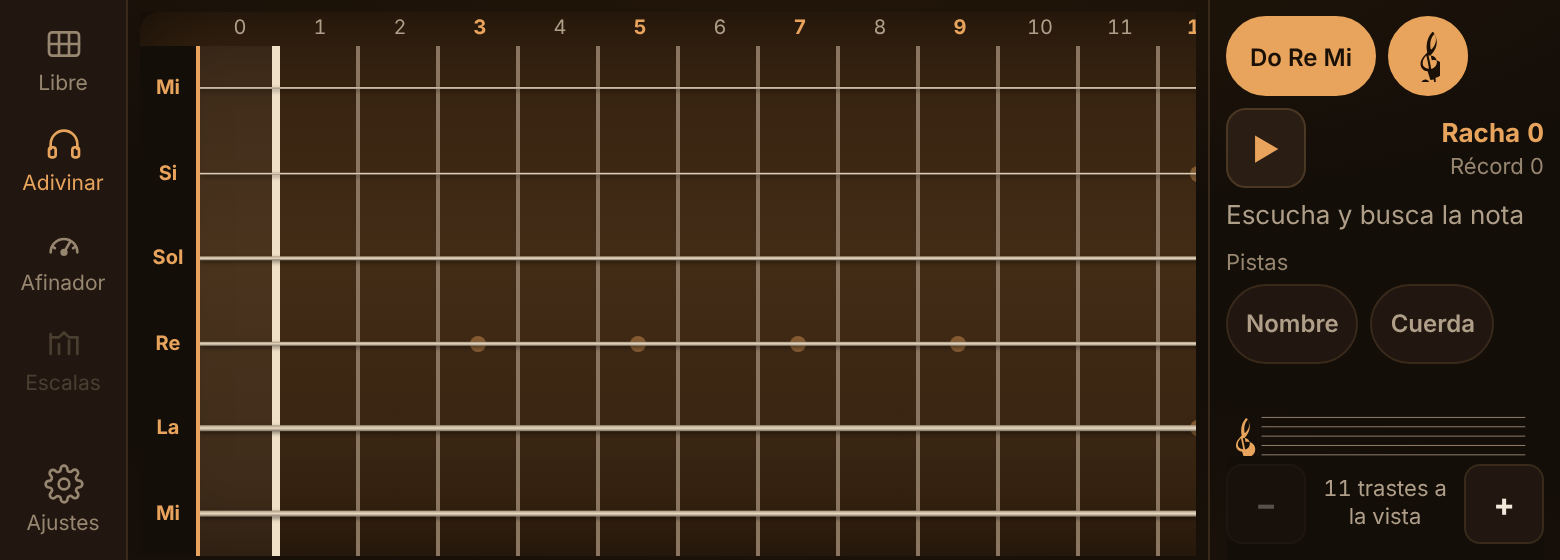
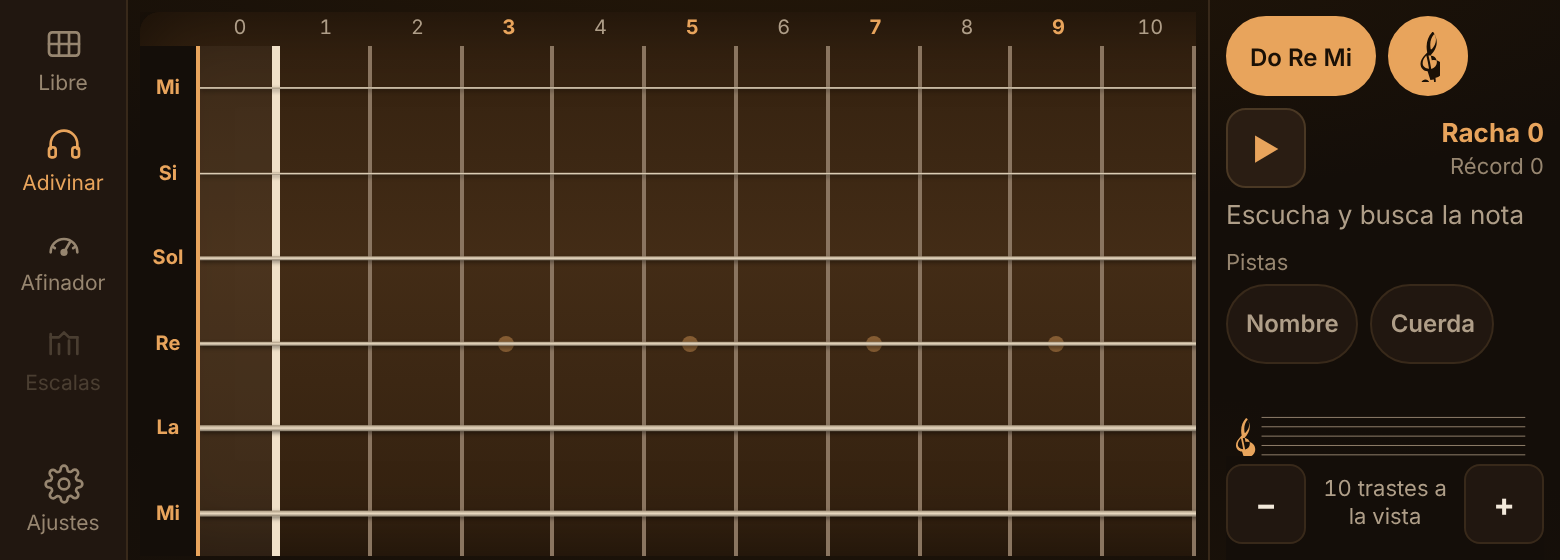
F3: «+» enseña más trastes y se pueden pedir trastes de hasta 28 px con el dedo (V-04, G-05)
Comentario del cliente del 20/10. App 0.3.2. Requisitos v1.14, matriz
1.12, roadmap 3.12 e interfaz 1.4. Se audita en CP-3.

Claude-Session: https://claude.ai/code/session_01WNqYPth87waeVp6tJXcZMT

diff --git a/dist/trasteando.html b/dist/trasteando.html
@@ -516,9 +516,10 @@ select { flex:1; min-height:40px; background:var(--surface); border:1px solid va
 
 <!-- Zoom -->
 <div class="zoombar" id="zoombar">
-  <button class="zoom-btn" id="zoom-out" aria-label="Ver más trastes">&minus;</button>
+  <!-- «+» enseña más trastes y «−» menos, como pidió el cliente el 20/10. -->
+  <button class="zoom-btn" id="zoom-in" aria-label="Ver menos trastes">&minus;</button>
   <span class="zoom-label" id="zoom-label"></span>
-  <button class="zoom-btn" id="zoom-in" aria-label="Ver menos trastes">+</button>
+  <button class="zoom-btn" id="zoom-out" aria-label="Ver más trastes">+</button>
 </div>
 
 </div>
@@ -652,7 +653,7 @@ select { flex:1; min-height:40px; background:var(--surface); border:1px solid va
 
 /* Versión de la app. Sigue la pauta 0.<fase del roadmap>.<corrección> hasta el
    lanzamiento, que será la 1.0.0. Cada cambio queda descrito en CHANGELOG.md. */
-const APP_VERSION = '0.3.1';
+const APP_VERSION = '0.3.2';
 
 /* ============================================================
    1. TEORÍA MUSICAL — datos base
@@ -672,14 +673,19 @@ const COLORS = ['#feb893','#ffddcb','#6ec933','#96de71','#fee73f','#9095fd',
 const NUM_FRETS = 24;
 const MIN_FRET_W = 34;   // ancho mínimo de un traste con ratón
 const MIN_TOUCH = 40;    // lado mínimo de lo que se toca con el dedo (G-05, V-04)
+const MIN_TOUCH_ZOOM = 28;  // con «+» se pueden ver más trastes, más estrechos (20/10)
 
 /** ¿El puntero principal es un dedo? Se pregunta por la capacidad, no por el
  *  sistema (PL-04): un portátil táctil con ratón dice que no, un móvil que sí. */
 function coarsePointer(){
   return typeof matchMedia === 'function' && matchMedia('(pointer: coarse)').matches;
 }
-/** Ancho mínimo de un traste: 40 px con el dedo, 34 con ratón (V-04). */
+/** Ancho cómodo de un traste: 40 px con el dedo, 34 con ratón. Es el que usa
+ *  la vista por defecto (G-05). */
 function minFretW(){ return coarsePointer() ? MIN_TOUCH : MIN_FRET_W; }
+/** Ancho mínimo si tú pides más trastes con «+»: 28 px con el dedo, que se
+ *  aciertan con algo más de cuidado; con ratón no cambia (V-04, 20/10). */
+function zoomFloorW(){ return coarsePointer() ? MIN_TOUCH_ZOOM : MIN_FRET_W; }
 const MAX_FRET_W = 110;
 
 // Afinaciones. Cada una es un array de 6 notas MIDI, de la cuerda más grave
@@ -1453,7 +1459,7 @@ function defaultVisibleFrets(){
   const w = window.innerWidth;
   const landscape = w > window.innerHeight;
   if (w >= 900) return NUM_FRETS;   // escritorio: mástil entero
-  if (landscape) return 12;
+  if (landscape) return 10;          // con 40 px por traste caben 10 en un iPhone con Safari
   return 5;                          // móvil vertical: pocos y anchos
 }
 
@@ -1463,7 +1469,7 @@ const LABEL_W = 30, NUT_W = 40;   // deben coincidir con --label-w y --nut-w
 function maxVisibleFrets(){
   const scroll = document.getElementById('board-scroll');
   const avail = scroll.clientWidth - LABEL_W - NUT_W;
-  return Math.max(3, Math.min(NUM_FRETS, Math.floor(avail / minFretW())));
+  return Math.max(3, Math.min(NUM_FRETS, Math.floor(avail / zoomFloorW())));
 }
 
 function applyZoom(){
@@ -1479,11 +1485,11 @@ function applyZoom(){
     ? (scroll.scrollLeft + scroll.clientWidth/2 - NUT_W) / prevFw
     : null;
 
-  // Con el dedo, un traste nunca mide menos de 40 px (V-04). Si el zoom
-  // guardado pide más trastes de los que caben así, se muestran los que caben
-  // y la etiqueta lo dice, pero no se pisa lo guardado: al girar el móvil
-  // vuelve el zoom elegido (V-08).
-  let fw = Math.max(minFretW(), Math.min(MAX_FRET_W, avail / state.visibleFrets));
+  // Con el dedo, un traste no baja de 28 px aunque pidas más con «+» (por
+  // defecto se ven los que caben a 40 px). Si el zoom guardado pide más de los
+  // que caben, se muestran los que caben y la etiqueta lo dice, pero no se
+  // pisa lo guardado: al girar el móvil vuelve el zoom elegido (V-08).
+  let fw = Math.max(zoomFloorW(), Math.min(MAX_FRET_W, avail / state.visibleFrets));
   // La variable vive en #board, no en :root: cambiarla en la raíz obliga al
   // navegador a revalidar el estilo de todo el documento en cada resize.
   document.getElementById('board').style.setProperty('--fret-w', fw + 'px');

diff --git a/index.html b/index.html
@@ -516,9 +516,10 @@ select { flex:1; min-height:40px; background:var(--surface); border:1px solid va
 
 <!-- Zoom -->
 <div class="zoombar" id="zoombar">
-  <button class="zoom-btn" id="zoom-out" aria-label="Ver más trastes">&minus;</button>
+  <!-- «+» enseña más trastes y «−» menos, como pidió el cliente el 20/10. -->
+  <button class="zoom-btn" id="zoom-in" aria-label="Ver menos trastes">&minus;</button>
   <span class="zoom-label" id="zoom-label"></span>
-  <button class="zoom-btn" id="zoom-in" aria-label="Ver menos trastes">+</button>
+  <button class="zoom-btn" id="zoom-out" aria-label="Ver más trastes">+</button>
 </div>
 
 </div>
@@ -633,7 +634,7 @@ select { flex:1; min-height:40px; background:var(--surface); border:1px solid va
 
 /* Versión de la app. Sigue la pauta 0.<fase del roadmap>.<corrección> hasta el
    lanzamiento, que será la 1.0.0. Cada cambio queda descrito en CHANGELOG.md. */
-const APP_VERSION = '0.3.1';
+const APP_VERSION = '0.3.2';
 
 /* ============================================================
    1. TEORÍA MUSICAL — datos base
@@ -653,14 +654,19 @@ const COLORS = ['#feb893','#ffddcb','#6ec933','#96de71','#fee73f','#9095fd',
 const NUM_FRETS = 24;
 const MIN_FRET_W = 34;   // ancho mínimo de un traste con ratón
 const MIN_TOUCH = 40;    // lado mínimo de lo que se toca con el dedo (G-05, V-04)
+const MIN_TOUCH_ZOOM = 28;  // con «+» se pueden ver más trastes, más estrechos (20/10)
 
 /** ¿El puntero principal es un dedo? Se pregunta por la capacidad, no por el
  *  sistema (PL-04): un portátil táctil con ratón dice que no, un móvil que sí. */
 function coarsePointer(){
   return typeof matchMedia === 'function' && matchMedia('(pointer: coarse)').matches;
 }
-/** Ancho mínimo de un traste: 40 px con el dedo, 34 con ratón (V-04). */
+/** Ancho cómodo de un traste: 40 px con el dedo, 34 con ratón. Es el que usa
+ *  la vista por defecto (G-05). */
 function minFretW(){ return coarsePointer() ? MIN_TOUCH : MIN_FRET_W; }
+/** Ancho mínimo si tú pides más trastes con «+»: 28 px con el dedo, que se
+ *  aciertan con algo más de cuidado; con ratón no cambia (V-04, 20/10). */
+function zoomFloorW(){ return coarsePointer() ? MIN_TOUCH_ZOOM : MIN_FRET_W; }
 const MAX_FRET_W = 110;
 
 // Afinaciones. Cada una es un array de 6 notas MIDI, de la cuerda más grave
@@ -1434,7 +1440,7 @@ function defaultVisibleFrets(){
   const w = window.innerWidth;
   const landscape = w > window.innerHeight;
   if (w >= 900) return NUM_FRETS;   // escritorio: mástil entero
-  if (landscape) return 12;
+  if (landscape) return 10;          // con 40 px por traste caben 10 en un iPhone con Safari
   return 5;                          // móvil vertical: pocos y anchos
 }
 
@@ -1444,7 +1450,7 @@ const LABEL_W = 30, NUT_W = 40;   // deben coincidir con --label-w y --nut-w
 function maxVisibleFrets(){
   const scroll = document.getElementById('board-scroll');
   const avail = scroll.clientWidth - LABEL_W - NUT_W;
-  return Math.max(3, Math.min(NUM_FRETS, Math.floor(avail / minFretW())));
+  return Math.max(3, Math.min(NUM_FRETS, Math.floor(avail / zoomFloorW())));
 }
 
 function applyZoom(){
@@ -1460,11 +1466,11 @@ function applyZoom(){
     ? (scroll.scrollLeft + scroll.clientWidth/2 - NUT_W) / prevFw
     : null;
 
-  // Con el dedo, un traste nunca mide menos de 40 px (V-04). Si el zoom
-  // guardado pide más trastes de los que caben así, se muestran los que caben
-  // y la etiqueta lo dice, pero no se pisa lo guardado: al girar el móvil
-  // vuelve el zoom elegido (V-08).
-  let fw = Math.max(minFretW(), Math.min(MAX_FRET_W, avail / state.visibleFrets));
+  // Con el dedo, un traste no baja de 28 px aunque pidas más con «+» (por
+  // defecto se ven los que caben a 40 px). Si el zoom guardado pide más de los
+  // que caben, se muestran los que caben y la etiqueta lo dice, pero no se
+  // pisa lo guardado: al girar el móvil vuelve el zoom elegido (V-08).
+  let fw = Math.max(zoomFloorW(), Math.min(MAX_FRET_W, avail / state.visibleFrets));
   // La variable vive en #board, no en :root: cambiarla en la raíz obliga al
   // navegador a revalidar el estilo de todo el documento en cada resize.
   document.getElementById('board').style.setProperty('--fret-w', fw + 'px');

diff --git a/tests/banco.test.js b/tests/banco.test.js
@@ -393,11 +393,23 @@ test('aviso para girar: solo con el dedo, en vertical, fuera del Afinador, y cer
   assert.equal(boot(APP).$('rotate-hint').hidden, true, 'sin matchMedia, como el caso más pobre, no sale');
 });
 
-test('con el dedo un traste mide al menos 40 px; con ratón, 34 (V-04, G-05)', () => {
-  assert.equal(boot(APP, null, DEDO).ev('minFretW()'), 40);
+test('con el dedo los trastes miden 40 px por defecto y con «+» se ven más, hasta 28 px (V-04, G-05)', () => {
+  assert.equal(boot(APP, null, DEDO).ev('minFretW()'), 40, 'ancho cómodo, el de la vista por defecto');
+  assert.equal(boot(APP, null, DEDO).ev('zoomFloorW()'), 28, 'lo más estrecho que se puede pedir');
   assert.equal(boot(APP, null, RATON).ev('minFretW()'), 34);
-  assert.equal(boot(APP).ev('minFretW()'), 34, 'sin matchMedia se trata como ratón');
+  assert.equal(boot(APP, null, RATON).ev('zoomFloorW()'), 34);
+  assert.equal(boot(APP).ev('zoomFloorW()'), 34, 'sin matchMedia se trata como ratón');
   assert.equal(boot(APP).ev('NUT_W'), 40, 'la cejuela también se toca con el dedo');
+  // «+» enseña más trastes y «−» menos, en ese orden de izquierda a derecha.
+  const A = boot(APP);
+  const botones = A.$('zoombar').querySelectorAll('.zoom-btn');
+  // (El DOM de prueba no traduce &minus;: se compara ya traducido.)
+  assert.deepEqual(botones.map(x => [x.textContent.replace('&minus;', '−'), x.getAttribute('aria-label')]),
+    [['−', 'Ver menos trastes'], ['+', 'Ver más trastes']]);
+  A.$('board-scroll').clientWidth = 390;   // un móvil en vertical: caben 9 trastes de 34 px
+  A.ev('state.visibleFrets = 5');
+  A.$('zoom-out').click();
+  assert.equal(A.ev('state.visibleFrets'), 7, '«+» suma trastes');
 });
 
 /** Historial de navegador simulado: una pila de pasos. back() retrocede uno y,

diff --git a/docs/requisitos.md b/docs/requisitos.md
@@ -1,7 +1,7 @@
 # Trasteando — Especificación de Requisitos
 
-**Versión del documento:** 1.13 · **Fecha:** 20 de octubre de 2026  
-**Válido para:** app `0.3.1` · `roadmap.md` v3.11 · `matriz-cumplimiento` v1.11 · fase en curso **F3**, en modo acelerado  
+**Versión del documento:** 1.14 · **Fecha:** 20 de octubre de 2026  
+**Válido para:** app `0.3.2` · `roadmap.md` v3.12 · `matriz-cumplimiento` v1.12 · fase en curso **F3**, en modo acelerado  
 **Repositorio:** github.com/pdigue/guitarra, carpeta `docs/` · **Gestiona:** chat de Desarrollo  
 **Tipo de producto:** aplicación web progresiva (PWA), desarrollada en local y publicada al final del roadmap
 
@@ -34,7 +34,8 @@
 
 | Versión | Fecha | App | Roadmap | Resumen | Origen |
 |---|---|:---:|:---:|---|---|
-| **1.13** | 20/10/2026 | 0.3.1 | 3.11 | Etapa F3.4: G-05 implementado y paleta decidida. 0 nuevos y 2 modificados: 93 en total. | Tu decisión del 20/10, AR-06 y AT-05 |
+| **1.14** | 20/10/2026 | 0.3.2 | 3.12 | Zoom: «+» enseña más trastes y se pueden pedir trastes de hasta 28 px con el dedo. 0 nuevos y 2 modificados: 93 en total. | Tu comentario del 20/10 |
+| 1.13 | 20/10/2026 | 0.3.1 | 3.11 | Etapa F3.4: G-05 implementado y paleta decidida. 0 nuevos y 2 modificados: 93 en total. | Tu decisión del 20/10, AR-06 y AT-05 |
 | 1.12 | 20/10/2026 | 0.3.0 | 3.10 | Etapa F3.2: V-01 y C-07 implementados. 0 nuevos y 8 modificados: 93 en total. | Etapa F3.2, AR-05 y AT-04 |
 | 1.11 | 20/10/2026 | 0.2.3 | 3.9 | Interfaz aprobada (F3.1): C-06 validado. 1 nuevo (C-07) y 8 modificados: 93 en total. | Tu aprobación de `interfaz.md` |
 | 1.10 | 20/10/2026 | 0.2.3 | 3.8 | Licencia del pack de nylon completa: S-07 implementado y validado. 0 nuevos y 1 modificado: 92 en total. | Tu comprobación en Freesound |
@@ -49,9 +50,15 @@
 | 1.1 | 15/09/2026 | 0.1.1 | 2.0 | Reconciliación de estados. 11 nuevos (S-07, V-09, J-11, G-05, G-06, A-02-CA, E-02b, E-05b, X-01 a X-03): 81 en total. Seis decisiones cerradas. | Auditoría de requisitos AR-01 |
 | 1.0 | 14/09/2026 | 0.1.0 | — | Primera versión: 70 requisitos en 11 categorías. | Tu listado inicial |
 
+### Detalle de la versión 1.14
+
+**Requisitos modificados ✏** — G-05, V-04
+- **V-04:** «+» enseña más trastes y «−» menos. Con el dedo, la vista por defecto sigue con trastes de 40 px, pero puedes pedir más trastes, de hasta 28 px.
+- **G-05:** la regla de 40 × 40 px admite esa excepción: los trastes más estrechos solo aparecen si tú los pides.
+
 ### Detalle de la versión 1.13
 
-**Requisitos modificados ✏** — G-05, L-03
+**Requisitos modificados** — G-05, L-03
 - **G-05:** implementado en la 0.3.1: teclado, contraste, movimiento reducido, tamaños táctiles y paleta. Su criterio en la matriz añade los umbrales de la paleta.
 - **L-03:** las posiciones del mismo sonido llevan contorno y, con «Ver todas las notas», un anillo exterior.
 
@@ -213,7 +220,7 @@
 | **G-02** | La app se organiza en áreas accesibles desde una navegación principal: Libre, Adivinar, Afinador y Escalas. | Alta | F1.1 | ✅ | ⬜ | 0.1.0 | Escalas visible pero deshabilitada hasta F5. |
 | **G-03** | La app funciona sin conexión una vez cargada **desde la web**. | Media | F6.2 · F7.2 | ⬜ | ⬜ | — | Service Worker en F6.2, decidido el 20/10: en la Sesión 1 el iPhone no prueba la app sin conexión. Depende de S-07. Se valida en dos pasos: en `localhost` en F6.2 y desde la web publicada en F7.2 (CP-1). En modo archivo (G-07) la autonomía se consigue de otra forma: el audio va dentro del archivo. |
 | **G-04** | La app es instalable como PWA (icono en la pantalla de inicio, pantalla completa). | Alta | F6.3 · F7.2 | 🟡 | ⬜ | 0.1.0 | Manifiesto incrustado como `data:` URL. Falta un archivo de manifiesto propio con iconos PNG (F6.3) y verificarla instalada desde la web publicada (F7.2): instalar solo es posible desde `https`. |
-| **G-05** ✏ | La interfaz cumple unos mínimos de accesibilidad: foco de teclado visible, respeto a `prefers-reduced-motion`, contraste suficiente y etiquetas accesibles en los controles solo-icono. | Media | F3.4 | ✅ | ⬜ | 0.1.1 | **Hecho en la 0.3.1** (F3.4, V-07). Con el teclado se llega a todo y el foco se ve; el mástil es una cuadrícula (`role="grid"`) que se recorre con las flechas y se toca con Intro; en Adivinar ninguna casilla anuncia su nota (J-12). Todos los textos a 4,5:1 o más, medidos en Chromium sobre su fondo real (con la 0.3.0 había 205 por debajo). Con «reducir movimiento» nada se anima. Con el dedo, controles y casillas de 40 × 40 px, también en Ajustes; la fila entera cambia su interruptor, y el asa cierra Ajustes deslizando. **Paleta por nota** con tu criterio del 20/10: 7 naturales bien separadas, también con daltonismo, y sostenidos derivados (`herramientas/paleta.py`). **Excepción** (AR-05): en vertical, por debajo de 660 px de alto, la navegación manda sobre los 40 px por cuerda. Falta probar con el dedo la fila y el asa en tu iPhone (Sesión 1). |
+| **G-05** ✏ | La interfaz cumple unos mínimos de accesibilidad: foco de teclado visible, respeto a `prefers-reduced-motion`, contraste suficiente y etiquetas accesibles en los controles solo-icono. | Media | F3.4 | ✅ | ⬜ | 0.1.1 | **Hecho en la 0.3.1** (F3.4, V-07). Con el teclado se llega a todo y el foco se ve; el mástil es una cuadrícula (`role="grid"`) que se recorre con las flechas y se toca con Intro; en Adivinar ninguna casilla anuncia su nota (J-12). Todos los textos a 4,5:1 o más, medidos en Chromium sobre su fondo real (con la 0.3.0 había 205 por debajo). Con «reducir movimiento» nada se anima. Con el dedo, controles y casillas de 40 × 40 px, también en Ajustes (salvo si pides más trastes con «+», que pueden estrecharse hasta 28 px); la fila entera cambia su interruptor, y el asa cierra Ajustes deslizando. **Paleta por nota** con tu criterio del 20/10: 7 naturales bien separadas, también con daltonismo, y sostenidos derivados (`herramientas/paleta.py`). **Excepción** (AR-05): en vertical, por debajo de 660 px de alto, la navegación manda sobre los 40 px por cuerda. Falta probar con el dedo la fila y el asa en tu iPhone (Sesión 1). |
 | **G-06** | El proyecto documenta sus dependencias externas y la licencia de cada recurso de terceros que distribuye, y la app muestra los créditos. | Media | F2.1 · F6.4 | 🟡 | ⬜ | — | `CREDITOS.md` (F2.1): origen, licencia, huella `sha256` y texto de atribución de cada muestra de audio, y Tone.js (MIT). Falta mostrar los créditos dentro de la app y elegir la licencia del propio código (F6.4). |
 | **G-07** | **Modo archivo autónomo** en Windows y Android: la app funciona completa —salvo el afinador por micrófono— abriendo el archivo directamente (`file://`), sin servidor y sin conexión. En iPhone, donde no se pueden abrir páginas desde Archivos, la autonomía llega por G-03. | Alta | F2.3 · F2.5 | ✅ | ⬜ | 0.2.1 | `dist/trasteando.html`: la app con sus 17 grabaciones dentro (1,46 MB). Límites revisados en CP-2: el audio no pasa de 1,45 MB, y bajar su calidad exige tu escucha; el archivo entero no pasa de 2 MB, para dejar sitio al código de F3 a F6. Lo que cuenta para ti es que abra en ≤ 3 s en Windows: en Chromium tarda 0,3 s, y en tu PC se mide en la Sesión 1 (F2.5). Redacción limitada a Windows y Android tras AR-03. |
 | **G-08** | El proyecto conserva **dos formas de distribución** equivalentes: el archivo autónomo (para llevárselo) y la web publicada (para instalarla como PWA). | Media | F4.1 · F6.1 | 🟡 | ⬜ | 0.1.0 | Desde la 0.2.1 hay dos formas reales: `index.html` para servir (Live Server y web) y `dist/trasteando.html`, generado a partir de él con `herramientas/generar-autonomo.py`. El banco comprueba que el autónomo está al día con `index.html`. Se vuelve más exigente al pasar a módulos (F4.1); F6.1 generará el archivo autónomo a partir de ellos. |
@@ -307,7 +314,7 @@
 |----|-----------|--------|-------|:-----:|:------:|:-----:|-------|
 | **L-01** | El modo por defecto al abrir la app es el diapasón libre. | Alta | F1.1 | ✅ | ⬜ | 0.1.0 | — |
 | **L-02** | El usuario decide si ve el nombre de todas las notas del mástil o solo el de la que pulsa. | Alta | F1.1 | ✅ | ⬜ | 0.1.0 | Por defecto solo la pulsada, para no convertir el mástil en una chuleta permanente. En Adivinar no se aplica (J-12). |
-| **L-03** ✏ | Al pulsar una nota se señalan discretamente las demás posiciones que producen **exactamente la misma nota** (mismo sonido, no misma clase de nota). | Media | F1.1 | ✅ | ⬜ | 0.1.0 | Desde la 0.3.1 se señalan con contorno, sin relleno, y con «Ver todas las notas» llevan además un anillo claro por fuera (AR-06). Señal deliberadamente más tenue que la nota pulsada. |
+| **L-03** | Al pulsar una nota se señalan discretamente las demás posiciones que producen **exactamente la misma nota** (mismo sonido, no misma clase de nota). | Media | F1.1 | ✅ | ⬜ | 0.1.0 | Desde la 0.3.1 se señalan con contorno, sin relleno, y con «Ver todas las notas» llevan además un anillo claro por fuera (AR-06). Señal deliberadamente más tenue que la nota pulsada. |
 
 ---
 
@@ -371,7 +378,7 @@
 | **V-01** | En móvil se **sugiere** la orientación horizontal con un aviso discreto; no se fuerza. | Alta | F3.2 | ✅ | ⬜ | 0.3.0 | **Hecho en la 0.3.0** según `interfaz.md` §7. En horizontal, raíl, mástil a todo el alto y panel: medido en Chromium, 52,8 px por cuerda en el iPhone con Safari (antes 28,8), 60,8 con la app instalada y 42,5 en un Android de 280 px de alto (V-06). El aviso para girar sale solo con el dedo, en vertical y en pantallas de menos de 600 px de ancho, en Libre y Adivinar (y Escalas desde F5), nunca en el Afinador; cerrado no vuelve y «Restablecer» lo recupera. Falta validarlo en tu iPhone (Sesión 1). El bloqueo de orientación tiene mal soporte en iOS, así que no se fuerza. |
 | **V-02** | El afinador funciona en vertical y en horizontal. | Alta | F1.1 | ✅ | ⬜ | 0.1.0 | — |
 | **V-03** | En escritorio el mástil aprovecha el ancho disponible. | Alta | F1.1 | ✅ | ⬜ | 0.1.0 | Arranca mostrando el mástil completo en pantallas anchas. |
-| **V-04** | Control de zoom que determina qué porción del mástil se ve. | Alta | F1.1 · F3.2 | ✅ | ⬜ | 0.1.0 | De 3 a 24 trastes a la vista. Desde 0.1.1 la etiqueta indica los trastes que caben de verdad, y el zoom conserva el tramo que estabas mirando. **Desde la 0.3.0**, con el dedo un traste nunca mide menos de 40 px (34 con ratón), y la cejuela, 40: en el iPhone en vertical caben como mucho 7 trastes y en horizontal de 10 a 12 según el ancho (V-06). Si el zoom guardado pide más, se muestran los que caben y la etiqueta lo dice, pero lo guardado se conserva para que al girar vuelva (V-08). |
+| **V-04** ✏ | Control de zoom que determina qué porción del mástil se ve. | Alta | F1.1 · F3.2 | ✅ | ⬜ | 0.1.0 | De 3 a 24 trastes a la vista. Desde 0.1.1 la etiqueta indica los trastes que caben de verdad, y el zoom conserva el tramo que estabas mirando. **Desde la 0.3.0**, con el dedo la vista por defecto usa trastes de 40 px o más (34 con ratón), y la cejuela mide 40. **Desde la 0.3.2** (tu comentario del 20/10), «+» enseña más trastes y «−» menos, y con el dedo puedes pedir trastes de hasta 28 px: en el iPhone con Safari, hasta 11 a la vista en vertical y 15 en horizontal. Si el zoom guardado pide más, se muestran los que caben y la etiqueta lo dice, pero lo guardado se conserva para que al girar vuelva (V-08). |
 | **V-05** | Cuando el mástil no cabe, el usuario se desplaza lateralmente. | Alta | F1.1 | ✅ | ⬜ | 0.1.0 | — |
 | **V-06** | El ancho de traste no cambia al desplazarse: el zoom fija el tamaño y el desplazamiento mueve la ventana. | Alta | F1.1 | ✅ | ⬜ | 0.1.0 | — |
 | **V-07** | El mástil se readapta al redimensionar la ventana. | Alta | F1.1 | ✅ | ⬜ | 0.1.0 | — |

diff --git a/docs/matriz-cumplimiento.md b/docs/matriz-cumplimiento.md
@@ -1,11 +1,13 @@
 # Trasteando — Matriz de cumplimiento de requisitos
 
-**Versión:** 1.11 · **Fecha:** 20 de octubre de 2026 · **Base:** `requisitos.md` v1.13 · app `0.3.1` · `roadmap.md` v3.11  
+**Versión:** 1.12 · **Fecha:** 20 de octubre de 2026 · **Base:** `requisitos.md` v1.14 · app `0.3.2` · `roadmap.md` v3.12  
 **Cliente:** Pablo Díaz Guerra · **Proveedor:** chat de Desarrollo · **Verificación independiente:** auditores
 
 > Versión en texto de `matriz-cumplimiento.xlsx`, para que los chats auditores puedan leerla. El texto de cada requisito está en `requisitos.md`; aquí va cómo se demuestra que se cumple.
 
 **Métodos:** I inspección · A análisis · D demostración · T prueba. **Regla de cierre:** una etapa se cierra cuando todos sus requisitos están en *Cumple* y *Verificado*.
+
+**Cambios en la 1.12:** criterios de V-04 y G-05 con el zoom nuevo.
 
 **Cambios en la 1.11:** F3.4. G-05 cumple; su criterio añade los umbrales de la paleta.
 
@@ -39,7 +41,7 @@
 | **G-02** | F1.1 | D | La barra inferior muestra Libre, Adivinar, Afinador y Escalas; cada destino activo abre su vista y Escalas aparece deshabilitada. | Cumple | F1.1 #1 y #14 | Pendiente | Cliente · listado 14/09 |
 | **G-03** | F6.2 · F7.2 | T | F6.2: tras una primera carga en localhost y sin red, la app abre y suena. F7.2: lo mismo desde la web publicada. | No cumple | — | Pendiente | Cliente · listado 14/09 |
 | **G-04** | F6.3 · F7.2 | D | Desde la web publicada, el navegador ofrece instalarla y abre a pantalla completa desde el icono. | Cumple parcialmente | — | Pendiente | Cliente · listado 14/09 |
-| **G-05** | F3.4 | I+T | Todo control es alcanzable con teclado y muestra el foco; contrastes ≥ 4,5:1 medidos; el movimiento se reduce con prefers-reduced-motion; en pantallas táctiles, todo control y toda casilla del mástil mide al menos 40 × 40 px, salvo las cuerdas en vertical con menos de 660 px de alto. Paleta por nota: las 7 naturales a ≥ 7,5 (OKLab × 100) entre sí con visión normal y con protanopía, deuteranopía y tritanopía simuladas, y las 12 a ≥ 8 con visión normal; el nombre de la nota siempre escrito. | Cumple | V-07: comprobar-accesibilidad.js (teclado, contraste, movimiento) · paleta.py · V-06: 40 × 40 px · Banco (node --test): teclado, etiquetas, paleta, grises, fila y asa | Verificado parcialmente | Cliente · 20/10 (interfaz.md v1.0) |
+| **G-05** | F3.4 | I+T | Todo control es alcanzable con teclado y muestra el foco; contrastes ≥ 4,5:1 medidos; el movimiento se reduce con prefers-reduced-motion; en pantallas táctiles, todo control y toda casilla del mástil mide al menos 40 × 40 px en la vista por defecto, salvo las cuerdas en vertical con menos de 660 px de alto y los trastes que el usuario estreche con «+» (hasta 28 px). Paleta por nota: las 7 naturales a ≥ 7,5 (OKLab × 100) entre sí con visión normal y con protanopía, deuteranopía y tritanopía simuladas, y las 12 a ≥ 8 con visión normal; el nombre de la nota siempre escrito. | Cumple | V-07: comprobar-accesibilidad.js (teclado, contraste, movimiento) · paleta.py · V-06: 40 × 40 px · Banco (node --test): teclado, etiquetas, paleta, grises, fila y asa | Verificado parcialmente | Cliente · 20/10 (interfaz.md v1.0) |
 | **G-06** | F2.1 · F6.4 | I | CREDITOS.md lista cada recurso de terceros con su origen y su licencia, y la app muestra el texto de atribución en Ajustes. | Cumple parcialmente | CREDITOS.md (F2.1). Falta mostrarlo en la app (F6.4) | Verificado parcialmente | Desarrollo · v1.1 |
 | **G-07** | F2.3 · F2.5 | T | En Windows (y Android cuando lo haya), con el ordenador en modo avión, dist/trasteando.html abre con doble clic en ≤ 3 s, suenan las grabaciones y funcionan Libre, Adivinar y el afinador por referencia. Audio ≤ 1,45 MB y archivo ≤ 2 MB. | Cumple | V-03 y V-04: desde disco y sin conexión en Chromium, abre en 0,3 s y suena a menos de 1 cent · Banco (node --test): autónomo al día, con su audio, huellas y límites | Verificado parcialmente | Cliente · 15/09 |
 | **G-08** | F4.1 · F6.1 | T | El archivo autónomo generado y la web publicada superan el mismo banco de pruebas. | Cumple parcialmente | — | Verificado parcialmente | Cliente · 15/09 |
@@ -112,7 +114,7 @@
 | **V-01** | F3.2 | D | En horizontal, con un alto útil de 268 px o más, cada cuerda mide al menos 40 px (iPhone en Safari e instalada; simulador de Android). En vertical, en pantallas táctiles de menos de 600 px de ancho y en Libre, Adivinar y Escalas, aparece el aviso para girar; nunca en el Afinador; cerrado, no vuelve y «Restablecer» lo recupera. | Cumple | V-06: comprobar-disposicion.js en 14 pantallas: 52,8 / 60,8 / 42,5 px · Banco (node --test): aviso para girar | Verificado parcialmente | Cliente · 20/10 (interfaz.md v1.0) |
 | **V-02** | F1.1 | D | El afinador se usa con comodidad en vertical y en horizontal. | Cumple | F1.1 #14 | Pendiente | Cliente · listado 14/09 |
 | **V-03** | F1.1 | D | En una pantalla de 1280 px se ven los 24 trastes sin desplazarse. | Cumple | F1.1 #14 | Pendiente | Cliente · listado 14/09 |
-| **V-04** | F1.1 · F3.2 | D | El zoom cambia los trastes visibles entre 3 y el máximo que cabe, y la etiqueta dice la cifra real. Con pointer: coarse, un traste mide al menos 40 px; si el zoom guardado pide más trastes, se muestran los que caben y lo guardado se conserva (V-08). | Cumple | F1.1 #7 y #8 · V-06: comprobar-disposicion.js en 14 pantallas · Banco (node --test): 40 px con el dedo | Verificado parcialmente | Cliente · 20/10 (interfaz.md v1.0) |
+| **V-04** | F1.1 · F3.2 | D | El zoom cambia los trastes visibles entre 3 y el máximo que cabe, y la etiqueta dice la cifra real; «+» enseña más trastes y «−» menos. Con pointer: coarse, la vista por defecto usa trastes de al menos 40 px y el usuario puede pedir más trastes, de hasta 28 px; si el zoom guardado pide más de los que caben, se muestran los que caben y lo guardado se conserva (V-08). | Cumple | F1.1 #7 y #8 · V-06 · Banco (node --test): 40 px por defecto, 28 con «+», orden de los botones | Verificado parcialmente | Cliente · 20/10 (interfaz.md v1.0) |
 | **V-05** | F1.1 | D | Con el mástil más ancho que la pantalla se puede desplazar hasta el traste 24. | Cumple | F1.1 #14 | Pendiente | Cliente · listado 14/09 |
 | **V-06** | F1.1 | D | Desplazarse no cambia el ancho de los trastes. | Cumple | F1.1 #7 | Pendiente | Cliente · listado 14/09 |
 | **V-07** | F1.1 | D | Al redimensionar la ventana el mástil se reajusta sin perder el tramo visible. | Cumple | F1.1 #7 | Pendiente | Cliente · listado 14/09 |

diff --git a/docs/interfaz.md b/docs/interfaz.md
@@ -1,7 +1,7 @@
 # Trasteando — Especificación de interfaz
 
-**Versión:** 1.3 · **Fecha:** 20 de octubre de 2026 · **Estado:** ✅ aprobada por ti el 20/10/2026 (versión 1.0). Las versiones 1.1 y 1.2 corrigen cifras medidas al construirla y anotan detalles de F3.2; la 1.3 recoge la paleta que decidiste para F3.4 (ver el control de cambios).
-**Etapa:** F3.1 · **Requisito:** C-06 · **Válido para:** app `0.3.1` · `requisitos.md` v1.13 · `roadmap.md` v3.11
+**Versión:** 1.4 · **Fecha:** 20 de octubre de 2026 · **Estado:** ✅ aprobada por ti el 20/10/2026 (versión 1.0). Las versiones 1.1 y 1.2 corrigen cifras medidas al construirla y anotan detalles de F3.2; la 1.3 recoge la paleta que decidiste para F3.4, y la 1.4, tu comentario sobre el zoom (ver el control de cambios).
+**Etapa:** F3.1 · **Requisito:** C-06 · **Válido para:** app `0.3.2` · `requisitos.md` v1.14 · `roadmap.md` v3.12
 **Revisión:** auditoría de requisitos AR-04 (`auditorias/AR-04-interfaz.md`), con sus 10 hallazgos resueltos en esta versión.
 **Bloquea:** F3.2 (horizontal), F3.4 (accesibilidad) y toda F5 (Escalas); fija también el hueco del micrófono de F4.
 
@@ -155,7 +155,7 @@ Las cuatro áreas pasan a la cabecera como pestañas, y desaparece la barra infe
 - **Mástil con teclado:** el mástil es un único punto de parada del tabulador. Dentro, **← →** cambian de traste, **↑ ↓** de cuerda, **Intro** o **Espacio** tocan la nota, e **Inicio** / **Fin** van al primer y al último traste visibles. Si la posición se sale de la vista, el mástil se desplaza solo. Técnica: *roving tabindex*, con el mástil anunciado como una cuadrícula (`role="grid"`).
 - **Foco visible** en todo: anillo discontinuo de 3 px, como en el boceto C1.
 - **Lectores de pantalla:** cada posición se anuncia («Sol 3, cuarta cuerda, traste 5») y los resultados del reto y del afinador se leen solos (`aria-live`). Los botones que solo tienen icono (⚙, ▶, −, +, 𝄞) llevan nombre.
-- **Tamaño de toque:** en pantallas táctiles, **ningún control ni casilla del mástil mide menos de 40 × 40 px**. Los bocetos lo cumplen y la herramienta lo comprueba. Para las casillas, **el zoom no deja que un traste mida menos de 40 px**: en el iPhone en vertical caben como mucho **7 trastes** a la vez; en horizontal, de 10 a 12 según el ancho; con ratón, hasta 24 como hoy. Si el zoom guardado (V-08) pide trastes más pequeños, se muestran los que caben, y lo guardado se conserva para que al girar el móvil vuelva el zoom elegido.
+- **Tamaño de toque:** en pantallas táctiles, **ningún control ni casilla del mástil mide menos de 40 × 40 px**. Los bocetos lo cumplen y la herramienta lo comprueba. Para las casillas, **la vista por defecto usa trastes de 40 px o más**. Si quieres ver más, **«+» enseña más trastes** y «−» menos, y con el dedo los trastes pueden estrecharse hasta 28 px: en el iPhone con Safari, hasta 11 a la vista en vertical y 15 en horizontal. Con ratón, hasta 24, como siempre. Si el zoom guardado (V-08) pide trastes más pequeños, se muestran los que caben, y lo guardado se conserva para que al girar el móvil vuelva el zoom elegido.
 - **Movimiento:** con `prefers-reduced-motion`, sin destellos ni animaciones de desplazamiento.
 - **Contraste:** 4,5:1 en textos, comprobado con herramienta en F3.4.
 
@@ -220,7 +220,8 @@ Los detalles se revisan tras usarla en la Sesión 1 (F3.3).
 
 | Versión | Fecha | Cambios |
 |---|---|---|
-| **1.3** | 20/10/2026 | §10: paleta decidida en F3.4 (7 naturales bien distintas y sostenidos derivados) y puntos secundarios con contorno. |
+| **1.4** | 20/10/2026 | §9: «+» enseña más trastes y «−» menos; con el dedo se pueden pedir trastes de hasta 28 px (tu comentario del 20/10). |
+| 1.3 | 20/10/2026 | §10: paleta decidida en F3.4 (7 naturales bien distintas y sostenidos derivados) y puntos secundarios con contorno. |
 | 1.2 | 20/10/2026 | Tras AR-05 y AT-04: en vertical, la navegación nunca se sale y los 40 px por cuerda se garantizan desde 660 px de alto (§7); en horizontal, de 10 a 12 trastes según el ancho; en el panel de Adivinar, Do Re Mi y 𝄞 arriba, como en Libre; el zoom guardado se conserva. El gesto de bajar para cerrar Ajustes pasa a F3.4. |
 | 1.1 | 20/10/2026 | Medido en F3.2 (V-06): con la cejuela de 40 px, caben como mucho 7 trastes en el iPhone en vertical y 10 en horizontal (antes se estimaban 8 y 11). Solo cambian esas cifras. |
 | 1.0 | 20/10/2026 | Aprobada por el cliente. Cambios aplicados en `requisitos.md` v1.11. |

diff --git a/docs/roadmap.md b/docs/roadmap.md
@@ -1,7 +1,7 @@
 # Trasteando — Roadmap de ejecución
 
-**Versión:** 3.11 · **Fecha:** 20 de octubre de 2026
-**Válido para:** app `0.3.1` · `requisitos.md` v1.13 · `matriz-cumplimiento` v1.11 · `interfaz.md` v1.3 · `compatibilidad.md` v1.3 · `automatizacion.md` v1.1 · `CHANGELOG.md`
+**Versión:** 3.12 · **Fecha:** 20 de octubre de 2026
+**Válido para:** app `0.3.2` · `requisitos.md` v1.14 · `matriz-cumplimiento` v1.12 · `interfaz.md` v1.4 · `compatibilidad.md` v1.3 · `automatizacion.md` v1.1 · `CHANGELOG.md`
 **Gestiona:** chat de Desarrollo
 
 > ⚡ **Modo acelerado activo desde el 14/10** (detalle en `automatizacion.md`). El agente ejecuta las etapas por bloques —F1 a F3, luego F4 a F6— y solo para en las decisiones. Las pruebas que necesitan tus manos se agrupan en dos sesiones: **Sesión 1** con el iPhone y el ordenador al cerrar F3, y **Sesión 2** con la guitarra al cerrar F6.
@@ -12,7 +12,7 @@
 
 ## 1. Estado de un vistazo
 
-📍 **Estás aquí:** F3 hecha por mi parte: F3.1, F3.2 (`0.3.0`) y F3.4 (`0.3.1`). Siguiente: la **Sesión 1** contigo, con el iPhone y el ordenador (F1.1, F2.5, F3.3 y lo añadido), y después CP-3 y F4.
+📍 **Estás aquí:** F3 hecha por mi parte: F3.1, F3.2 (`0.3.0`), F3.4 (`0.3.1`) y el zoom que pediste (`0.3.2`). Siguiente: la **Sesión 1** contigo, con el iPhone y el ordenador (F1.1, F2.5, F3.3 y lo añadido), y después CP-3 y F4.
 
 | Fase | Objetivo | Versión | Dónde se usa | Etapas | Progreso |
 |------|----------|:---:|---|:---:|---|
@@ -451,7 +451,8 @@ flowchart TB
 
 | Versión | Fecha | Cambios |
 |---|---|---|
-| **3.11** | 20/10/2026 | F3.4 hecha con la `0.3.1`, tras AR-06 y AT-05. Paleta decidida. F3 queda a falta de la Sesión 1 (F3.3). |
+| **3.12** | 20/10/2026 | `0.3.2`: «+» enseña más trastes y con el dedo se pueden pedir trastes de hasta 28 px. Se audita en CP-3, junto con lo que salga de la Sesión 1. |
+| 3.11 | 20/10/2026 | F3.4 hecha con la `0.3.1`, tras AR-06 y AT-05. Paleta decidida. F3 queda a falta de la Sesión 1 (F3.3). |
 | 3.10 | 20/10/2026 | F3.2 hecha con la `0.3.0`, tras AR-05 y AT-04. F3.4 recoge lo que quedó de F3.2. Comprobaciones nuevas para la Sesión 1. |
 | 3.9 | 20/10/2026 | F3.1 cerrada con `interfaz.md` v1.0. F3.2 amplía su alcance (V-04, C-07) y su criterio (alto útil ≥ 268 px). |
 | 3.8 | 20/10/2026 | Licencia del pack de nylon completa: S-07 cerrado. |

diff --git a/CHANGELOG.md b/CHANGELOG.md
@@ -6,8 +6,9 @@ Todas las versiones de la app, de la más reciente a la más antigua.
 
 | Versión | Fecha | Etapa | Dónde está |
 |---|---|---|---|
-| **0.3.1** | 20/10/2026 | F3.4 | Rama `auto/F3.4-accesibilidad` |
-| 0.3.0 | 20/10/2026 | F3.2 | Rama `auto/F3.2-horizontal` (PR #8) |
+| **0.3.2** | 20/10/2026 | F3 · tu comentario sobre el zoom | Rama `auto/F3.2-zoom` |
+| 0.3.1 | 20/10/2026 | F3.4 | `main`, fusionada el 20/10 (PR #9) |
+| 0.3.0 | 20/10/2026 | F3.2 | `main`, fusionada el 20/10 (PR #8) |
 | 0.2.3 | 19/10/2026 | F2 · auditoría CP-2 | `main`, fusionada el 20/10 |
 | 0.2.2 | 19/10/2026 | F2.4 | `main`, aprobada el 19/10 |
 | 0.2.1 | 19/10/2026 | F2.3 | `main`, aprobada el 19/10 |
@@ -26,6 +27,17 @@ Todas las versiones de la app, de la más reciente a la más antigua.
 ## [Sin publicar]
 
 Nada todavía.
+
+---
+
+## [0.3.2] — 20/10/2026 · Zoom: «+» enseña más trastes
+
+### Cambiado
+- **V-04** · «+» enseña más trastes y «−» menos, al revés que antes, y en ese orden de izquierda a derecha (tu comentario del 20/10).
+- **V-04 · G-05** · Con el dedo puedes pedir más trastes, que se estrechan hasta 28 px. En el iPhone con Safari caben hasta 11 en vertical (antes 7) y 15 en horizontal (antes 10). La vista por defecto sigue con trastes de 40 px o más; en horizontal empieza en 10. Con ratón no cambia nada.
+
+### Verificado
+- Banco: 35 de 35, con la prueba del zoom ampliada (anchos, orden de los botones y que «+» sume trastes). `comprobar-disposicion.js` y las 15 comprobaciones de F1.1 siguen bien. Se audita en CP-3.
 
 ---
 
